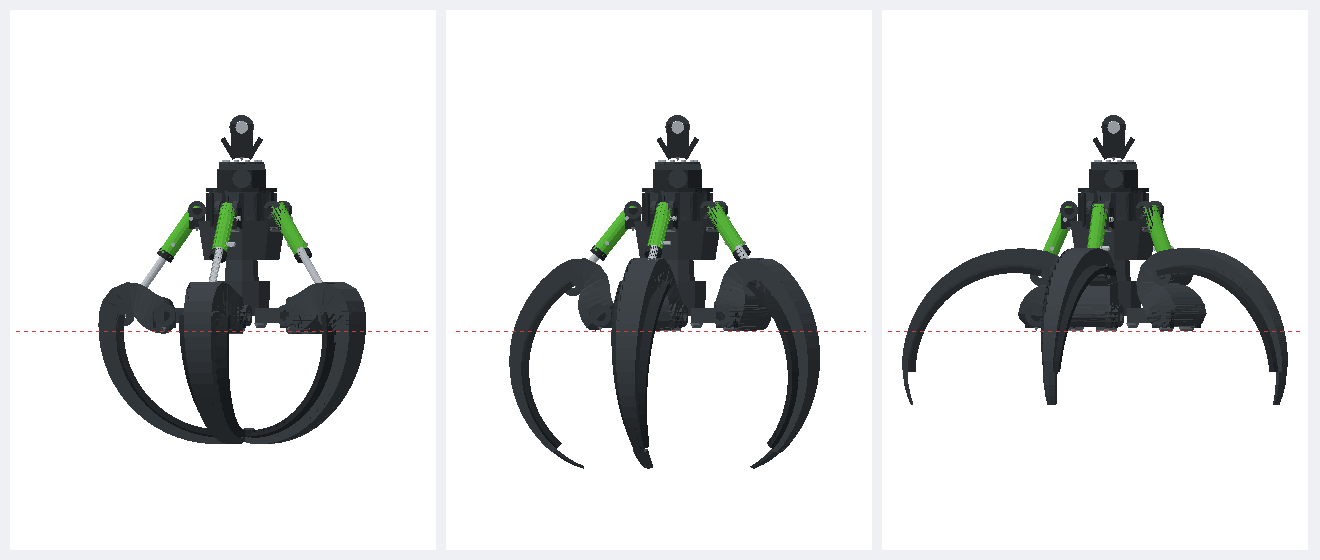
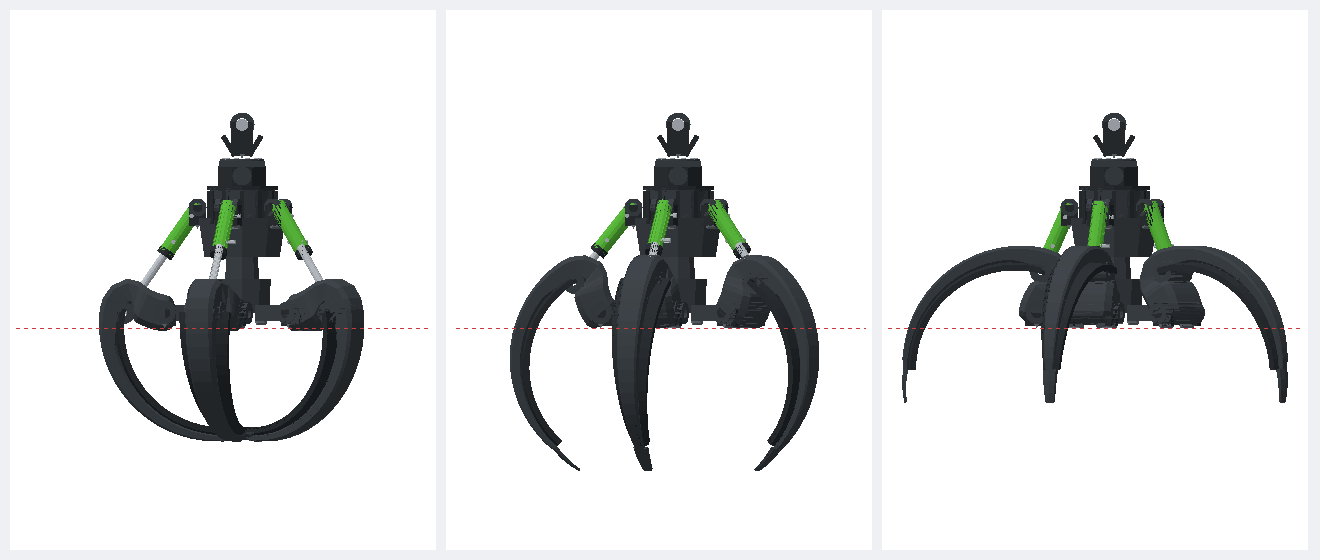
Die Schale wird facettiert: Schulter am Arm, Kanten am Guss
Vorlage 14.09.2026: „Die Schalen sind facettiert, nicht durchgehend rund:
Es gibt eine sichtbare Schulter, wo der Arm in die Schale uebergeht, und
die Flaechen lesen sich als gekantetes bzw. gegossenes Blech mit Kanten."
Der Zinken bleibt dabei EIN Gussstueck (E-013) — facettiert heisst
gekantet, nicht zerlegt.

Drei Eingriffe, keiner an der Kinematik:

1. SCHULTER. Die Blende von der Ferse in die Schale lief als eine weiche
   Kurve ueber die ganze Ferse — der Arm wurde von der ersten Station an
   gleichmaessig duenner. Jetzt zwei Abschnitte: ueber 42 % der Ferse
   bleibt er satt (400 → 384 mm breit), dann faellt er bis 74 % auf den
   Schalenquerschnitt (238 mm). Das ist der Absatz in der Ruecken- und in
   der Draufsichtlinie. Drei Startwerte, nach Augenmass an der Zeichnung.

2. KANTEN. `strang` baute ein Vierkantprofil, dessen vier Laengskanten
   sich die Eckpunkte teilten — `computeVertexNormals` hat sie weggemittelt
   und aus dem Gusstraeger einen Schlauch gemacht. Jetzt bekommt jede
   Flaeche eigene Eckpunkte: quer scharf, laengs weiter gemittelt, die
   Sichel also glatt. Dazu eine Fase von 16 % der kleineren Seite an allen
   vier Laengskanten — der Streifen, an dem man Guss erkennt. Dieselbe
   Behandlung fuer den Zahn, dessen First sonst rundgemittelt wurde.

3. Die beiden Stirnquerschnitte des Zahns liegen jetzt als erste Punkte im
   Netz. Das ist ein Vertrag, kein Zufall: Waechter und Messwerkzeug lesen
[…]

diff --git a/v1/src/fuenfschalen/teile.ts b/v1/src/fuenfschalen/teile.ts
@@ -706,6 +706,22 @@ function je(v: ProStation, k: number): number {
   return typeof v === "number" ? v : (v[k] ?? v[v.length - 1] ?? 0);
 }
 
+/**
+ * Fase an den vier Längskanten, als Anteil der kleineren Querschnittsseite.
+ *
+ * Vorlage 14.09.2026: „die Flächen lesen sich als gekantetes bzw. gegossenes
+ * Blech mit Kanten." Ein gegossener Träger hat gebrochene Kanten, und genau die
+ * machen ihn als Guss lesbar: Man sieht einen schmalen Streifen, der anders im
+ * Licht steht als Rücken und Flanke. Ohne sie bleibt ein Vierkantprofil, und
+ * bei weicher Schattierung wird daraus im Bild ein Schlauch.
+ *
+ * SW 14.09.2026 — 16 % der kleineren Seite, also 21 mm am Bolzen (130 mm hoch)
+ * und 6 mm am Zahnfuss (39 mm). Die Fase ändert die SEITENANSICHT nicht: Sie
+ * schneidet die Ecken in der Breitenrichtung weg, und dort blickt die
+ * Silhouette hindurch.
+ */
+const FASE = 0.16;
+
 export function strang(
   stationen: Array<{ y: number; z: number; th: number }>,
   x: ProStation,
@@ -722,11 +738,26 @@ export function strang(
     uv.push(u, v);
     return i;
   };
-  const quad = (a: number, b: number, c: number, d: number): void => {
-    idx.push(a, b, c, a, c, d);
+  /** Querschnitt an Station k: acht Ecken, die vier Längskanten gefast. */
+  const schnitt = (k: number): Array<[number, number]> => {
+    const bk = je(breite, k);
+    const dk = je(dicke, k);
+    const vk = je(versatz, k);
+    const c = FASE * Math.min(bk, dk);
+    const hb = bk / 2;
+    return [
+      [-hb + c, vk],
+      [hb - c, vk],
+      [hb, vk + c],
+      [hb, vk + dk - c],
+      [hb - c, vk + dk],
+      [-hb + c, vk + dk],
+      [-hb, vk + dk - c],
+      [-hb, vk + c],
+    ];
   };
-  const ecken: number[][] = [];
-  for (let k = 0; k < stationen.length; k++) {
+  /** Ein Querschnittspunkt in Weltlage des Strangs. */
+  const punkt = (k: number, dx: number, dn: number): [number, number, number] => {
     const s0 = stationen[k]!;
     /*
      * Die Aussennormale des Bogens ist (-sin th, cos th), NICHT (sin th, cos th).
@@ -740,34 +771,45 @@ export function strang(
      * Blech, sondern laengs daneben — in der Seitenansicht die Einschnuerung
      * in der Mitte („die Mitte ist zu duenn", 13.09.2026).
      */
-    const ny = -Math.sin(s0.th);
-    const nz = Math.cos(s0.th);
-    const xk = je(x, k);
-    const vk = je(versatz, k);
-    const dk = je(dicke, k);
-    const bk = je(breite, k);
-    const reihe: number[] = [];
-    for (const [dx, dn] of [
-      [-bk / 2, vk],
-      [bk / 2, vk],
-      [bk / 2, vk + dk],
-      [-bk / 2, vk + dk],
-    ] as Array<[number, number]>) {
-      reihe.push(
-        p(xk + dx, s0.y + dn * ny, s0.z + dn * nz, (dx + bk / 2) / bk, k / stationen.length)
-      );
+    return [
+      je(x, k) + dx,
+      s0.y + dn * -Math.sin(s0.th),
+      s0.z + dn * Math.cos(s0.th),
+    ];
+  };
+  const N = 8;
+  /*
+   * JEDE FLÄCHE BEKOMMT EIGENE ECKPUNKTE.
+   *
+   * Vorher teilten sich die anliegenden Flächen ihre Punkte, und
+   * `computeVertexNormals` hat dort gemittelt: Aus acht scharfen Längskanten
+   * wurde eine weiche Rundung, aus dem Gussträger im Betrachter ein Schlauch.
+   * Mit eigenen Punkten je Fläche bleibt die Kante quer scharf — und längs,
+   * über die Stationen hinweg, wird weiter gemittelt, die Sichel also glatt.
+   * Das ist derselbe Unterschied wie zwischen einem gefalteten Blech und einem
+   * gerollten Rohr.
+   */
+  for (let e = 0; e < N; e++) {
+    const f = (e + 1) % N;
+    let vor: [number, number] | null = null;
+    for (let k = 0; k < stationen.length; k++) {
+      const s = schnitt(k);
+      const v = k / (stationen.length - 1);
+      const a = p(...punkt(k, s[e]![0], s[e]![1]), e / N, v);
+      const b = p(...punkt(k, s[f]![0], s[f]![1]), (e + 1) / N, v);
+      if (vor) idx.push(vor[0], vor[1], b, vor[0], b, a);
+      vor = [a, b];
     }
-    ecken.push(reihe);
   }
-  for (let k = 0; k < ecken.length - 1; k++) {
-    for (let e = 0; e < 4; e++) {
-      const f = (e + 1) % 4;
-      quad(ecken[k]![e]!, ecken[k]![f]!, ecken[k + 1]![f]!, ecken[k + 1]![e]!);
+  /* Stirnflächen als Fächer — sie brauchen ihre eigenen Punkte ebenfalls. */
+  for (const k of [0, stationen.length - 1]) {
+    const s = schnitt(k);
+    const ring = s.map(([dx, dn], j) => p(...punkt(k, dx, dn), j / N, k === 0 ? 0 : 1));
+    for (let j = 1; j + 1 < N; j++) {
+      if (k === 0) idx.push(ring[0]!, ring[j + 1]!, ring[j]!);
+      else idx.push(ring[0]!, ring[j]!, ring[j + 1]!);
     }
   }
-  const letzte = ecken.length - 1;
-  quad(ecken[0]![3]!, ecken[0]![2]!, ecken[0]![1]!, ecken[0]![0]!);
-  quad(ecken[letzte]![0]!, ecken[letzte]![1]!, ecken[letzte]![2]!, ecken[letzte]![3]!);
   const g = new THREE.BufferGeometry();
   g.setAttribute("position", new THREE.Float32BufferAttribute(pos, 3));
   g.setAttribute("uv", new THREE.Float32BufferAttribute(uv, 2));
@@ -1423,8 +1465,33 @@ export function baueGreiferschale(
   const versaetze: number[] = [];
   /* Ohne die letzte Fersenstation — die ist Station 0 und kommt aus `fein`. */
   for (const f of ferse.slice(0, -1)) {
-    /* Weich überblendet, damit der Körper am Bolzen satt bleibt und erst danach abnimmt. */
-    const w = f.t <= 0 ? 0 : f.t * f.t * (3 - 2 * f.t);
+    /*
+     * Die SCHULTER — hier geht der Arm in die Schale über, und man sieht es.
+     *
+     * Vorher lief eine einzige weiche Blende über die ganze Ferse: Der Arm
+     * wurde von der ersten Station an gleichmässig dünner und war irgendwann
+     * die Schale. Auf der Herstellerzeichnung vom 14.09.2026 ist das anders —
+     * dort ist „eine sichtbare Schulter, wo der Arm in die Schale übergeht".
+     *
+     * Jetzt sind es zwei Abschnitte: Über die ersten `SCHULTER_AB` der Ferse
+     * nimmt der Arm nur um `SCHULTER_VOR` seines Weges ab, bleibt also satt;
+     * danach fällt er über ein Drittel der Ferse auf den Schalenquerschnitt.
+     * In der Seitenansicht ist das ein Knick in der Rückenlinie statt einer
+     * durchgehenden Rundung.
+     *
+     * Die drei Zahlen sind Startwerte (SW 14.09.2026), nach Augenmass an der
+     * Zeichnung: knapp die halbe Ferse trägt den Arm, der Absatz sitzt im
+     * zweiten Drittel. Sie ändern nichts an Bolzen- und Schalenquerschnitt —
+     * nur daran, WO dazwischen die Dicke verloren geht.
+     */
+    const SCHULTER_AB = 0.42;
+    const SCHULTER_BIS = 0.74;
+    const SCHULTER_VOR = 0.22;
+    const knie = Math.max(0, Math.min(1, (f.t - SCHULTER_AB) / (SCHULTER_BIS - SCHULTER_AB)));
+    const w =
+      f.t <= 0
+        ? 0
+        : SCHULTER_VOR * f.t + (1 - SCHULTER_VOR) * knie * knie * (3 - 2 * knie);
     /* Hinter dem Bolzen läuft die Nabe rund aus — Ellipse statt Stirnfläche. */
     const nase = f.t < 0 ? Math.sqrt(1 - f.t * f.t) : 1;
     /*
@@ -1758,28 +1825,51 @@ export function baueGreiferspitze(st: Stoffe): THREE.Group {
     uv.push(tu, tv);
     return i;
   };
-  const ringe = ZAHN_STATIONEN.map((_s, si) =>
-    zahnRing(si).map((q, j) => {
+  /* Eckpunkte, wie sie die Stationen ergeben — für die Stirnkappen gebraucht. */
+  const ecken = ZAHN_STATIONEN.map((_s, si) =>
+    zahnRing(si).map((q) => {
       const [py, pz] = dreh(q[1], q[2]);
-      return p(q[0], py - tief, z0 + pz, j / 5, si / 5);
+      return [q[0], py - tief, z0 + pz] as [number, number, number];
     })
   );
-  for (let i = 0; i < ringe.length - 1; i++) {
-    const a2 = ringe[i]!;
-    const b2 = ringe[i + 1]!;
-    for (let k = 0; k < a2.length; k++) {
-      const k2 = (k + 1) % a2.length;
-      idx.push(a2[k]!, b2[k]!, b2[k2]!, a2[k]!, b2[k2]!, a2[k2]!);
-    }
-  }
-  const kappe = (ring: number[], gedreht: boolean): void => {
+  /*
+   * Fünf Flächen, fünf eigene Punktreihen — dieselbe Regel wie im `strang`.
+   *
+   * Der Querschnitt ist ein Fünfeck mit First: flache Innenseite, zwei
+   * abgeschrägte Schultern, Rücken. Teilen sich die Flächen ihre Punkte, mittelt
+   * `computeVertexNormals` den First weg, und der Zahn liest sich als runder
+   * Dorn statt als gegossener Keil.
+   */
+  const N = ecken[0]!.length;
+  /*
+   * ZUERST die beiden Stirnflächen, in der Reihenfolge des Querschnitts.
+   *
+   * Nicht aus Bauzwang, sondern als Vertrag: Die ersten N Punkte des Netzes
+   * sind der Sitzquerschnitt, die nächsten N die Spitze. Daran messen die
+   * Wächter Länge und Achse des Zahns (`test/fuenfschalen.test.ts`) und daran
+   * misst `tools/fuenfschalen/abcde.ts`. Vorher lagen die Ringe der Reihe nach
+   * im Puffer; seit jede Fläche eigene Punkte hat, tun sie das nicht mehr.
+   */
+  const kappe = (si: number, gedreht: boolean): void => {
+    const ring = ecken[si]!.map((q, j) => p(...q, j / N, gedreht ? 0 : 1));
     for (let k = 1; k < ring.length - 1; k++) {
       if (gedreht) idx.push(ring[0]!, ring[k + 1]!, ring[k]!);
       else idx.push(ring[0]!, ring[k]!, ring[k + 1]!);
     }
   };
-  kappe(ringe[0]!, true);
-  kappe(ringe[ringe.length - 1]!, false);
+  kappe(0, true);
+  kappe(ecken.length - 1, false);
+  for (let e = 0; e < N; e++) {
+    const f = (e + 1) % N;
+    let vor: [number, number] | null = null;
+    for (let si = 0; si < ecken.length; si++) {
+      const v = si / (ecken.length - 1);
+      const a = p(...ecken[si]![e]!, e / N, v);
+      const b = p(...ecken[si]![f]!, (e + 1) / N, v);
+      if (vor) idx.push(vor[0], b, vor[1], vor[0], a, b);
+      vor = [a, b];
+    }
+  }
   const geo = new THREE.BufferGeometry();
   geo.setAttribute("position", new THREE.Float32BufferAttribute(pos, 3));
   geo.setAttribute("uv", new THREE.Float32BufferAttribute(uv, 2));

diff --git a/v1/test/fuenfschalen.test.ts b/v1/test/fuenfschalen.test.ts
@@ -38,6 +38,25 @@ function finde(wurzel: THREE.Object3D, name: string): THREE.Object3D {
   return o;
 }
 
+/**
+ * Schwerpunkt einer Stirnfläche des Zahns (0 = Sitz, 1 = Spitze), in Weltlage.
+ *
+ * `baueGreiferspitze` legt die beiden Stirnquerschnitte als erste Punkte ins
+ * Netz — genau dafür. Seit jede der fünf Zahnflächen ihre eigenen Eckpunkte
+ * bekommt (damit der First nicht weggemittelt wird), liegen die Ringe nicht
+ * mehr der Reihe nach im Puffer, und ein Zugriff „alle 5 Punkte ein Ring"
+ * führte auf 891 statt 250 mm.
+ */
+function zahnStirn(zahn: THREE.Mesh, welche: 0 | 1): THREE.Vector3 {
+  const pos = zahn.geometry.getAttribute("position") as THREE.BufferAttribute;
+  const RING = 5; // fuenfeckiger Querschnitt
+  const s = new THREE.Vector3();
+  const v = new THREE.Vector3();
+  for (let i = 0; i < RING; i++) s.add(v.fromBufferAttribute(pos, welche * RING + i));
+  zahn.updateWorldMatrix(true, false);
+  return s.multiplyScalar(1 / RING).applyMatrix4(zahn.matrixWorld);
+}
+
 describe("Fünfschalen — Zeichnung gegen Rechnung", () => {
   /**
    * Steht die gezeichnete Schale dort, wo `mittellinie` sie rechnet?
@@ -268,13 +287,16 @@ describe("Fünfschalen — Maße", () => {
     /*
      * Positionsliste 07 Greiferspitze: 0,25 × 0,12 × 0,08 m.
      *
-     * Die Länge wird längs der ZAHNACHSE gemessen, als Summe der Abstände
-     * zwischen den Schwerpunkten der vier Querschnitte. Vorher stand hier das
-     * achsparallele Hüllmaß `max(s.y, s.z)`. Das war ein Stellvertreter, und er
-     * hat aufgehört zu stimmen, als der Zahn am 14.09.2026 seine Anstellung
-     * bekam: Ein um 12,15° gekippter Körper misst in der Hülle 260 statt
-     * 250 mm, obwohl an ihm kein Millimeter anders ist. Die Achse misst den
-     * Zahn, die Hülle misst seine Lage.
+     * Die Länge wird längs der ZAHNACHSE gemessen, als Abstand der beiden
+     * Stirnflächen-Schwerpunkte. Vorher stand hier das achsparallele Hüllmaß
+     * `max(s.y, s.z)`. Das war ein Stellvertreter, und er hat aufgehört zu
+     * stimmen, als der Zahn am 14.09.2026 seine Anstellung bekam: Ein um 12,15°
+     * gekippter Körper misst in der Hülle 260 statt 250 mm, obwohl an ihm kein
+     * Millimeter anders ist. Die Achse misst den Zahn, die Hülle seine Lage.
+     *
+     * Gemessen wird die Sehne, nicht die abgewickelte Länge — der Zahn ist mit
+     * R 0,70 gebogen, die Sehne über 250 mm ist 252,6 mm lang. Das liegt
+     * innerhalb der Toleranz und ist die Strecke, die man am Teil abgreift.
      *
      * Die Breite bleibt das Hüllmaß in x — die Anstellung dreht um x, quer zum
      * Zahn ändert sich dadurch nichts.
@@ -287,17 +309,7 @@ describe("Fünfschalen — Maße", () => {
       bb.getSize(new THREE.Vector3()).x,
       `Zahn ${(bb.getSize(new THREE.Vector3()).x * 1000).toFixed(0)} mm breit`
     ).toBeCloseTo(0.12, 2);
-
-    const pos = zahn.geometry.getAttribute("position") as THREE.BufferAttribute;
-    const RING = 5; // fuenfeckiger Querschnitt, fuenf Punkte je Station
-    const mitte = (von: number): THREE.Vector3 => {
-      const s = new THREE.Vector3();
-      const v = new THREE.Vector3();
-      for (let i = 0; i < RING; i++) s.add(v.fromBufferAttribute(pos, von + i));
-      return s.multiplyScalar(1 / RING);
-    };
-    let laenge = 0;
-    for (let i = RING; i < pos.count; i += RING) laenge += mitte(i).distanceTo(mitte(i - RING));
+    const laenge = zahnStirn(zahn, 0).distanceTo(zahnStirn(zahn, 1));
     expect(laenge, `Zahnlänge ${(laenge * 1000).toFixed(0)} mm`).toBeCloseTo(0.25, 2);
   });
 
@@ -318,17 +330,8 @@ describe("Fünfschalen — Maße", () => {
   const zahnachse = (g: ReturnType<typeof baueGreifer>): number => {
     g.wurzel.updateMatrixWorld(true);
     const zahn = finde(g.wurzel, "SHELL_TIP_01").children[0] as THREE.Mesh;
-    const pos = zahn.geometry.getAttribute("position") as THREE.BufferAttribute;
-    const RING = 5;
-    const mitte = (von: number): THREE.Vector3 => {
-      const s = new THREE.Vector3();
-      const v = new THREE.Vector3();
-      for (let i = 0; i < RING; i++) s.add(v.fromBufferAttribute(pos, von + i));
-      return s.multiplyScalar(1 / RING).applyMatrix4(zahn.matrixWorld);
-    };
-    const fuss = mitte(0);
-    const spitze = mitte(pos.count - RING);
-    const d = spitze.clone().sub(fuss);
+    const fuss = zahnStirn(zahn, 0);
+    const d = zahnStirn(zahn, 1).sub(fuss);
     const aussen = new THREE.Vector2(fuss.x, fuss.z).normalize();
     return Math.atan2(d.x * aussen.x + d.z * aussen.y, -d.y);
   };

diff --git a/v1/tools/fuenfschalen/abcde.ts b/v1/tools/fuenfschalen/abcde.ts
@@ -98,17 +98,19 @@ function zahnachse(g: ReturnType<typeof baueGreifer>): number {
   const zahn = zaehne(g)[0]!.getObjectByName("07_ZAHN") as THREE.Mesh;
   zahn.updateWorldMatrix(true, false);
   const pos = zahn.geometry.getAttribute("position") as THREE.BufferAttribute;
-  /* Die Ringe stehen in Bauordnung hintereinander, fünf Punkte je Ring. */
+  /*
+   * Die ersten fünf Punkte sind der Sitzquerschnitt, die nächsten fünf die
+   * Spitze — so legt `baueGreiferspitze` sie ab, genau für diese Messung.
+   */
   const RING = 5;
-  const mitte = (von: number): THREE.Vector3 => {
+  const mitte = (welche: number): THREE.Vector3 => {
     const s = new THREE.Vector3();
     const v = new THREE.Vector3();
-    for (let i = 0; i < RING; i++) s.add(v.fromBufferAttribute(pos, von + i));
+    for (let i = 0; i < RING; i++) s.add(v.fromBufferAttribute(pos, welche * RING + i));
     return s.multiplyScalar(1 / RING).applyMatrix4(zahn.matrixWorld);
   };
   const fuss = mitte(0);
-  const spitze = mitte(pos.count - RING);
-  const d = spitze.clone().sub(fuss);
+  const d = mitte(1).sub(fuss);
   /* Radiale Richtung am Fuß — dorthin zeigt „außen". */
   const aussen = new THREE.Vector2(fuss.x, fuss.z).normalize();
   const dr = d.x * aussen.x + d.z * aussen.y;
